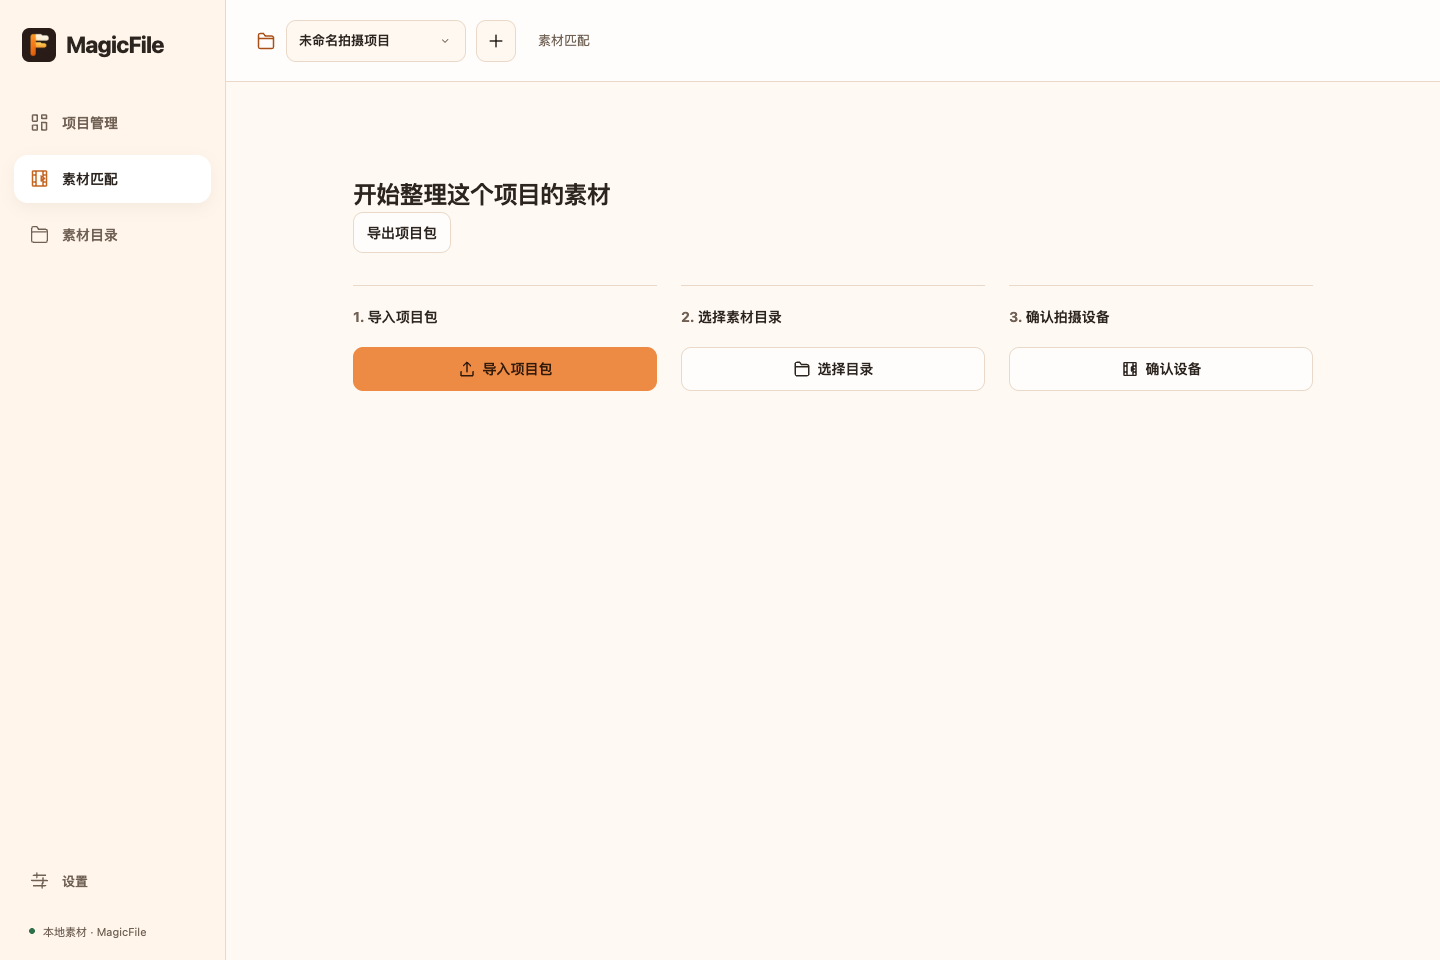
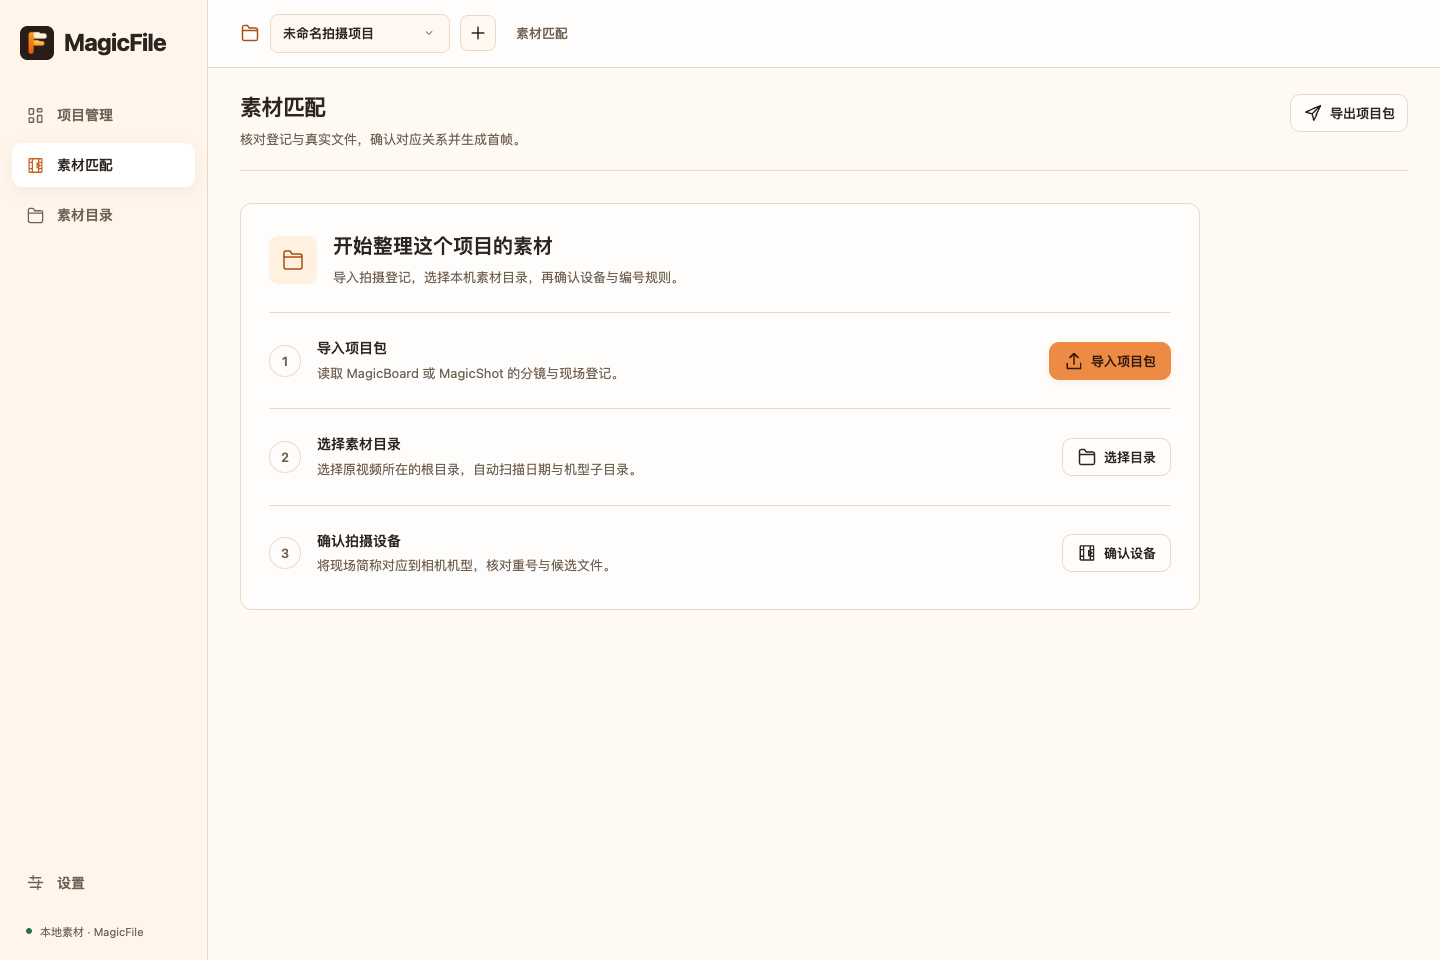
Publish MagicFile 0.13.1 macOS download site

diff --git a/index.html b/index.html
@@ -6,7 +6,7 @@
 <header class="masthead"><a class="brand glass motion-surface" href="#"><img class="brand-mark" src="assets/logo.png?v=f-v4" alt="" aria-hidden="true"><span>MagicFlie</span></a><nav class="glass" aria-label="官网导航"><a href="#capabilities">功能</a><a href="#workflow">工作流</a><a href="#questions">使用说明</a></nav><a class="nav-contact glass motion-surface" href="https://space.bilibili.com/285044195/" target="_blank" rel="noopener noreferrer">联系我们<svg viewBox="0 0 24 24" aria-hidden="true"><path d="M7 17 17 7M7 7h10v10"/></svg></a></header>
 
 <main id="main">
-<section class="hero" aria-labelledby="hero-title"><div class="hero-copy"><h1 id="hero-title"><span class="product-name">MagicFlie</span><span class="hero-message"><span>让现场编号</span><span>找到真实画面</span></span></h1><p class="lead">对应拍摄编号，自动提取视频首帧。<br>无需登录，在自己的 Mac 上完成素材整理。</p><div class="hero-actions"><a class="download-button motion-surface" href="https://github.com/YIFF-by/magicfile-site/releases/download/v0.13.0/MagicFile-v0.13.0-macOS-universal.dmg">下载 MagicFlie<svg viewBox="0 0 24 24" aria-hidden="true"><path d="M12 3v12m-5-5 5 5 5-5M4 16v5h16v-5"/></svg></a><a class="secondary-button glass motion-surface" href="#workflow">了解工作流<svg viewBox="0 0 24 24" aria-hidden="true"><path d="M5 12h14m-5-5 5 5-5 5"/></svg></a></div><p class="release">macOS 13.5+ · Apple 芯片与 Intel</p></div>
+<section class="hero" aria-labelledby="hero-title"><div class="hero-copy"><h1 id="hero-title"><span class="product-name">MagicFlie</span><span class="hero-message"><span>让现场编号</span><span>找到真实画面</span></span></h1><p class="lead">对应拍摄编号，自动提取视频首帧。<br>无需登录，在自己的 Mac 上完成素材整理。</p><div class="hero-actions"><a class="download-button motion-surface" href="https://github.com/YIFF-by/magicfile-site/releases/download/v0.13.1/MagicFile-v0.13.1-macOS-universal.dmg">下载 MagicFlie<svg viewBox="0 0 24 24" aria-hidden="true"><path d="M12 3v12m-5-5 5 5 5-5M4 16v5h16v-5"/></svg></a><a class="secondary-button glass motion-surface" href="#workflow">了解工作流<svg viewBox="0 0 24 24" aria-hidden="true"><path d="M5 12h14m-5-5 5 5-5 5"/></svg></a></div><p class="release">macOS 13.5+ · Apple 芯片与 Intel</p></div>
 <figure class="product-window" aria-label="编号对应与首帧提取流程示意">
   <div class="window-bar"><div class="window-dots" aria-hidden="true"><i></i><i></i><i></i></div><span>素材对应</span><span class="preview-note">流程示意</span></div>
   <div class="preview-content">
@@ -26,10 +26,10 @@
 
 
 <section class="questions section" id="questions" aria-labelledby="questions-title"><div class="section-heading"><h2 id="questions-title">使用说明</h2></div><div class="answers">
-<details><summary>如何安装和打开？<span aria-hidden="true">+</span></summary><p>安装包中的应用名为 MagicFile.app。打开 DMG 后，将 MagicFile.app 拖到「应用程序」，双击打开。软件会在浏览器中打开本机工作台，无需安装 Node.js 或媒体工具。仅支持 macOS 13.5 及以上电脑，不提供手机版。</p></details><details><summary>如何回传到 MagicBoard 和 MagicShot？<span aria-hidden="true">+</span></summary><p>将回传包手动导入 MagicBoard 1.0.28 或兼容新版，或 MagicShot 手机接收预览版。手机接收功能尚未发布到微信正式版，旧版接收端不支持此包。</p></details><details><summary>首次打开被 macOS 拦截怎么办？<span aria-hidden="true">+</span></summary><p>当前应用尚未进行 Apple 签名公证。尝试打开后，前往「系统设置 → 隐私与安全性」，找到 MagicFile 提示并选择「仍要打开」。请使用此官网提供的安装包。</p></details><details class="more-help"><summary>更多使用说明<span aria-hidden="true">+</span></summary><div class="extra-answers"><details><summary>更新软件会影响已有项目吗？<span aria-hidden="true">+</span></summary><p>升级前在「设置 → 应用与诊断」中退出 MagicFile，再用新版 DMG 替换应用。旧版没有退出入口时，可使用原下载包中的停止命令。项目保存在 <code>~/Library/Application Support/MagicFile/data/</code>，不要删除此目录。备份时先停止服务，再复制整个 data 文件夹。</p></details><details><summary>可以删除项目、清理首帧缓存吗？<span aria-hidden="true">+</span></summary><p>在项目管理中删除项目，或在「设置 → 首帧缓存」中查看路径、清理和重建首帧。删除项目不会删除原视频；仅清理缓存时，登记记录、人工关联与已导出的文件也会保留。</p></details><details><summary>关掉浏览器后，任务还会继续吗？<span aria-hidden="true">+</span></summary><p>浏览器是本机软件的操作窗口，关闭页面不会停止本地服务。任务完成后，在「设置 → 应用与诊断」中选择「退出 MagicFile」即可结束服务。</p></details><details><summary>如何核验安装包？<span aria-hidden="true">+</span></summary><p>下载 <a href="https://github.com/YIFF-by/magicfile-site/releases/download/v0.13.0/MagicFile-v0.13.0-macOS-universal.dmg.sha256">SHA-256 校验文件</a>，核对安装包。也可以查看<a href="releases/latest.json">当前版本清单</a>。</p><code class="checksum">47527cba4724ce98184dc7fe4448eab9d126e1796c5fd17409f57bb7c92ea32d</code></details></div></details></div></section>
+<details><summary>如何安装和打开？<span aria-hidden="true">+</span></summary><p>安装包中的应用名为 MagicFile.app。打开 DMG 后，将 MagicFile.app 拖到「应用程序」，双击打开。软件会在浏览器中打开本机工作台，无需安装 Node.js 或媒体工具。仅支持 macOS 13.5 及以上电脑，不提供手机版。</p></details><details><summary>如何回传到 MagicBoard 和 MagicShot？<span aria-hidden="true">+</span></summary><p>将回传包手动导入 MagicBoard 1.0.28 或兼容新版，或 MagicShot 手机接收预览版。手机接收功能尚未发布到微信正式版，旧版接收端不支持此包。</p></details><details><summary>首次打开被 macOS 拦截怎么办？<span aria-hidden="true">+</span></summary><p>当前应用尚未进行 Apple 签名公证。尝试打开后，前往「系统设置 → 隐私与安全性」，找到 MagicFile 提示并选择「仍要打开」。请使用此官网提供的安装包。</p></details><details class="more-help"><summary>更多使用说明<span aria-hidden="true">+</span></summary><div class="extra-answers"><details><summary>更新软件会影响已有项目吗？<span aria-hidden="true">+</span></summary><p>升级前在「设置 → 应用与诊断」中退出 MagicFile，再用新版 DMG 替换应用。旧版没有退出入口时，可使用原下载包中的停止命令。项目保存在 <code>~/Library/Application Support/MagicFile/data/</code>，不要删除此目录。备份时先停止服务，再复制整个 data 文件夹。</p></details><details><summary>可以删除项目、清理首帧缓存吗？<span aria-hidden="true">+</span></summary><p>在项目管理中删除项目，或在「设置 → 首帧缓存」中查看路径、清理和重建首帧。删除项目不会删除原视频；仅清理缓存时，登记记录、人工关联与已导出的文件也会保留。</p></details><details><summary>关掉浏览器后，任务还会继续吗？<span aria-hidden="true">+</span></summary><p>浏览器是本机软件的操作窗口，关闭页面不会停止本地服务。任务完成后，在「设置 → 应用与诊断」中选择「退出 MagicFile」即可结束服务。</p></details><details><summary>如何核验安装包？<span aria-hidden="true">+</span></summary><p>下载 <a href="https://github.com/YIFF-by/magicfile-site/releases/download/v0.13.1/MagicFile-v0.13.1-macOS-universal.dmg.sha256">SHA-256 校验文件</a>，核对安装包。也可以查看<a href="releases/latest.json">当前版本清单</a>。</p><code class="checksum">472a82188608e0e9ab1cd0704aec2d734edee3be15e6cd8dda7d7c67e081a9a4</code></details></div></details></div></section>
 
-<section class="download-section section" id="download" aria-labelledby="download-title"><h2 id="download-title">下一次拍摄，从容整理</h2><a class="download-button motion-surface" href="https://github.com/YIFF-by/magicfile-site/releases/download/v0.13.0/MagicFile-v0.13.0-macOS-universal.dmg">下载 macOS 版<svg viewBox="0 0 24 24" aria-hidden="true"><path d="M12 3v12m-5-5 5 5 5-5M4 16v5h16v-5"/></svg></a><p class="release">v0.13.0 · DMG · 179 MB · Apple 芯片 / Intel</p></section>
+<section class="download-section section" id="download" aria-labelledby="download-title"><h2 id="download-title">下一次拍摄，从容整理</h2><a class="download-button motion-surface" href="https://github.com/YIFF-by/magicfile-site/releases/download/v0.13.1/MagicFile-v0.13.1-macOS-universal.dmg">下载 macOS 版<svg viewBox="0 0 24 24" aria-hidden="true"><path d="M12 3v12m-5-5 5 5 5-5M4 16v5h16v-5"/></svg></a><p class="release">v0.13.1 · DMG · 180 MB · Apple 芯片 / Intel</p></section>
 
-</main><footer><a class="brand" href="#"><img class="brand-mark" src="assets/logo.png?v=f-v4" alt="" aria-hidden="true"><span>MagicFlie</span></a><a href="https://github.com/YIFF-by/magicfile-site/releases/tag/v0.13.0">版本说明<svg viewBox="0 0 24 24" aria-hidden="true"><path d="M5 12h14m-5-5 5 5-5 5"/></svg></a></footer>
+</main><footer><a class="brand" href="#"><img class="brand-mark" src="assets/logo.png?v=f-v4" alt="" aria-hidden="true"><span>MagicFlie</span></a><a href="https://github.com/YIFF-by/magicfile-site/releases/tag/v0.13.1">版本说明<svg viewBox="0 0 24 24" aria-hidden="true"><path d="M5 12h14m-5-5 5 5-5 5"/></svg></a></footer>
 <script src="site.js?v=45f7d790ede8" defer></script>
 </body></html>
